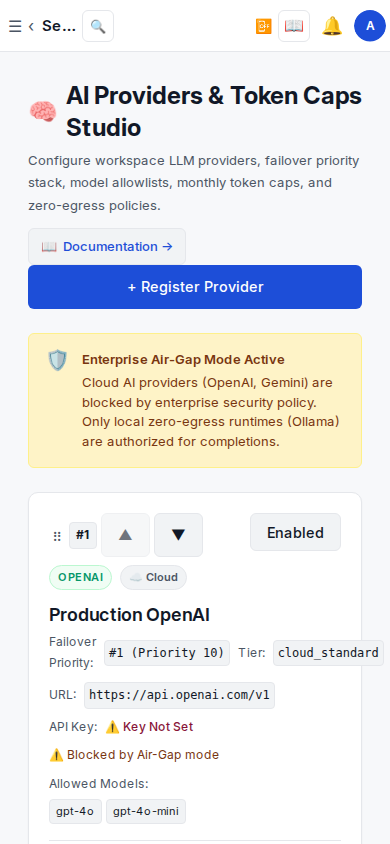
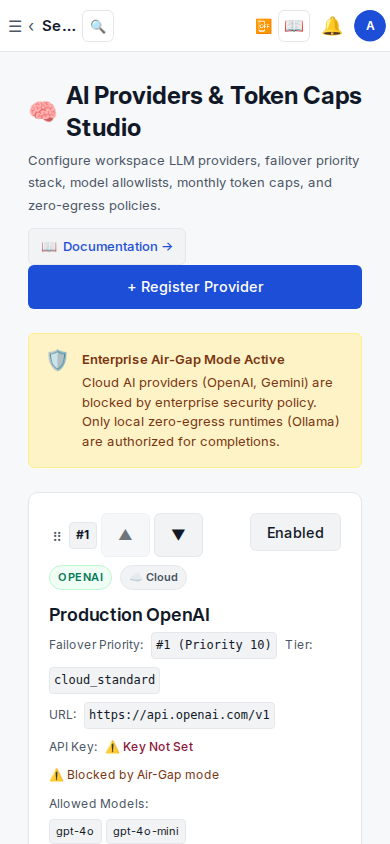
fix(ui): address round-1 review on aiStudio.css tokens, contrast and wrapping (KAN-442)

Changed region(s): [[0.1231, 0.7393, 0.7077, 1.0], [0.7077, 0.7393, 0.9846, 0.8009], [0.2154, 0.6777, 0.2462, 0.7085]]

diff --git a/kanban/web/src/features/admin-ai/__tests__/AiStudioPage.test.tsx b/kanban/web/src/features/admin-ai/__tests__/AiStudioPage.test.tsx
@@ -2360,10 +2360,15 @@ describe('AiStudioPage & Components (KAN-22 / KANBA-219)', () => {
       expect(cssContent).toMatch(/\.kb-provider-kind--custom\s*\{[^}]*color:\s*var\(--fg-secondary\)/);
       expect(cssContent).toMatch(/\.kb-provider-kind--custom\s*\{[^}]*border:\s*1px solid var\(--border-subtle\)/);
 
-      // Assert provider meta row code
+      // Assert provider meta row code and flex wrapping
+      expect(cssContent).toMatch(/\.kb-provider-meta-row\s*\{[^}]*flex-wrap:\s*wrap/);
       expect(cssContent).toMatch(/\.kb-provider-meta-row code\s*\{[^}]*background-color:\s*var\(--bg-secondary\)/);
       expect(cssContent).toMatch(/\.kb-provider-meta-row code\s*\{[^}]*color:\s*var\(--fg-primary\)/);
       expect(cssContent).toMatch(/\.kb-provider-meta-row code\s*\{[^}]*border:\s*1px solid var\(--border-subtle\)/);
+
+      // Assert high contrast text tokens for dark mode WCAG AA
+      expect(cssContent).toMatch(/\.kb-key-status--no-key\s*\{[^}]*color:\s*var\(--badge-fg\)/);
+      expect(cssContent).toMatch(/\.kb-advanced-settings-summary:hover\s*\{[^}]*color:\s*var\(--badge-fg\)/);
     });
   });
 });

diff --git a/kanban/web/src/features/admin-ai/aiStudio.css b/kanban/web/src/features/admin-ai/aiStudio.css
@@ -153,6 +153,7 @@
 .kb-provider-meta-row {
   display: flex;
   align-items: center;
+  flex-wrap: wrap;
   gap: var(--space-2, 8px);
 }
 
@@ -414,6 +415,16 @@
     justify-content: center;
   }
 
+  .kb-provider-meta-row {
+    flex-wrap: wrap;
+  }
+
+  .kb-provider-meta-row code {
+    white-space: normal;
+    overflow-wrap: anywhere;
+    max-width: 100%;
+  }
+
   .kb-modal-footer,
   .kb-ai-drawer-footer {
     position: sticky;
@@ -490,7 +501,7 @@
 }
 
 .kb-advanced-settings-summary:hover {
-  color: var(--accent-primary);
+  color: var(--badge-fg);
 }
 
 .kb-advanced-settings-body {
@@ -774,7 +785,7 @@
 }
 
 .kb-key-status--no-key {
-  color: var(--accent-primary);
+  color: var(--badge-fg);
 }
 
 .kb-key-status--missing {
